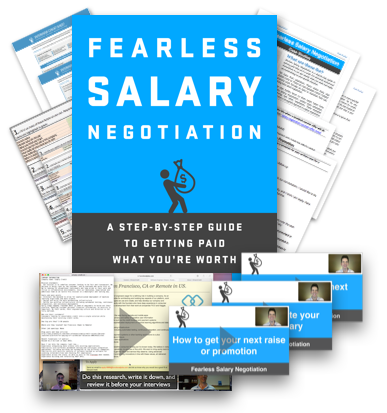
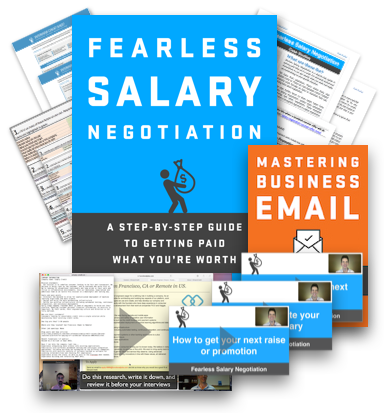
MBE added to FSN Complete/STrategy

Changed region(s): [[0.6202, 0.3487, 0.9922, 0.8426]]

diff --git a/_includes/pricing_grid.html b/_includes/pricing_grid.html
@@ -17,6 +17,7 @@
 			<li class="feature"><i class="fa fa-list-alt"></i> Interview Cheat Sheet</li>
 			<li class="feature"><i class="fa fa-user"></i> 3 Case Studies</li>
 			<li class="feature"><i class="fa fa-film"></i> 2 Expert Interviews</li>
+			<li class="feature"><i class="fa fa-book"></i> <em>Mastering Business Email</em></li>
 	    <li class="product-buy">		
 				<span class="fsn-full-price">
 					<a href="https://transactions.sendowl.com/packages/35514/18BAA1E4/add_to_cart" rel="nofollow" class="button button--bright sendowl-button">
@@ -47,6 +48,7 @@
 			<li class="feature"><i class="fa fa-list-alt"></i> Interview Cheat Sheet</li>
 			<li class="feature"><i class="fa fa-user"></i> 3 Case Studies</li>
 			<li class="feature"><i class="fa fa-film"></i> 2 Expert Interviews</li>
+			<li class="feature"><i class="fa fa-book"></i> <em>Mastering Business Email</em></li>
 	    <li class="product-buy">
 				<span class="fsn-full-price">
 					<a href="https://transactions.sendowl.com/packages/35513/80DBBDE4/add_to_cart" rel="nofollow" class="button button--bright sendowl-button">
@@ -77,6 +79,7 @@
 			<li class="feature"><s><i class="fa fa-list-alt"></i> Interview Cheat Sheet</s></li>
 			<li class="feature"><s><i class="fa fa-user"></i> 3 Case Studies</s></li>
 			<li class="feature"><s><i class="fa fa-film"></i> 2 Expert Interviews</s></li>
+			<li class="feature"><s><i class="fa fa-book"></i> <em>Mastering Business Email</em></s></li>
 	    <li class="product-buy">		
 				<span class="fsn-full-price">
 					<a href="https://transactions.sendowl.com/packages/35512/C895E617/add_to_cart" rel="nofollow" class="button button--bright sendowl-button">

diff --git a/_includes/offering_overview_two_column.html b/_includes/offering_overview_two_column.html
@@ -138,6 +138,23 @@
 
 <div class="offering-item">
 	<div class="image">
+		<img src="{{ site.baseurl }}/images/MasteringBusinessEmail_Cover.jpg" class="package__feature-details-img shadow" alt="Mastering Business Email cover" width="125">
+	</div>
+	
+	<div class="description">
+		<p><strong>BONUS: Complete and Strategy bundles only</strong></p>
+		<p><strong><em>Mastering Business Email: How to write emails that get read</em></strong>: A complete guide to writing professional business email</p>
+		<ul class="checkbox-list">
+			<li class="checkbox-list__item"><strong>Mastering Business Email</strong>—PDF, mobi, ePub formats</li>
+			<li class="checkbox-list__item"><strong>One-page field-by-field quick reference</strong>—Quick reference PDF to compose better emails faster.</li>
+			<li class="checkbox-list__item"><strong>5 sample email templates for common scenarios</strong>—Turn down new business; Project status call follow-up; Request a testimonial; Cold survey request; Own up to a mistake.</li>
+		</ul>
+	</div>
+	<hr>
+</div>
+
+<div class="offering-item">
+	<div class="image">
 		<img src="/images/josh-doody-200px-circle.png" style="padding-right: 10px;" width="125" alt="Josh Doody headshot">
 	</div>
 	<div class="description">
